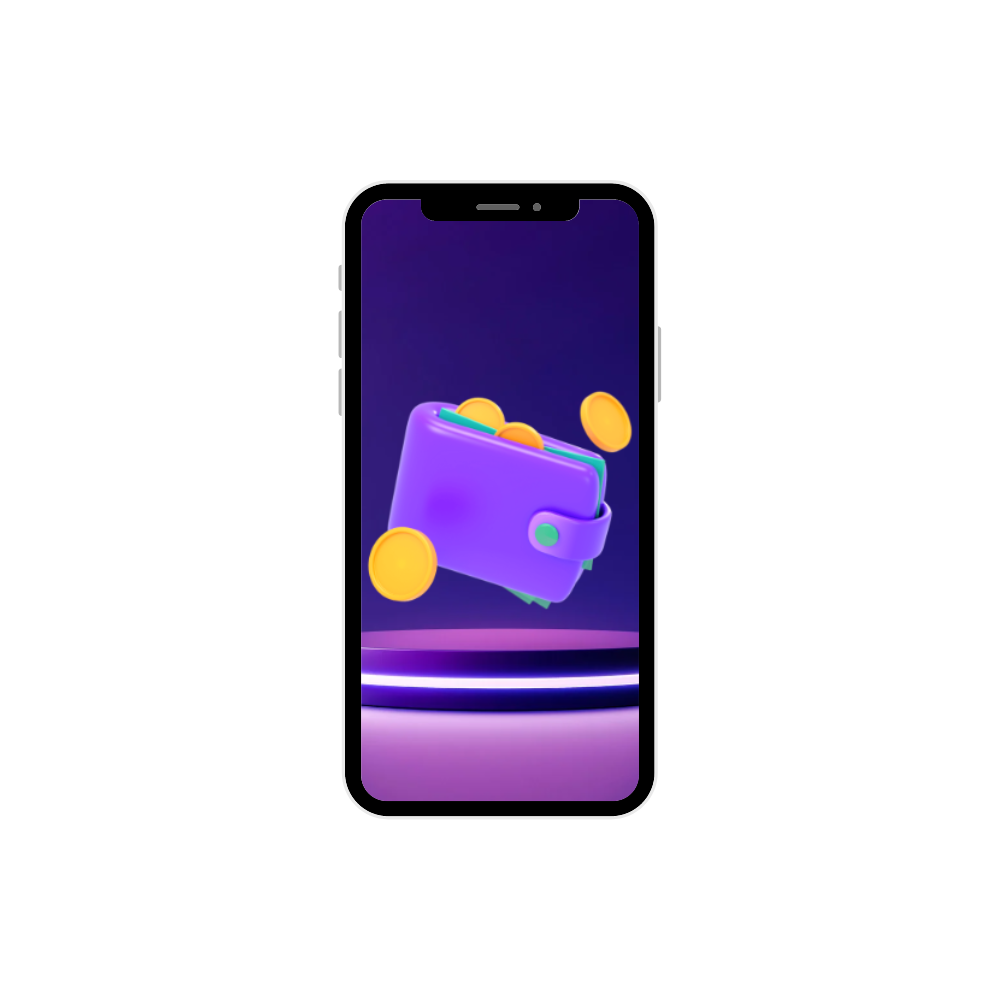
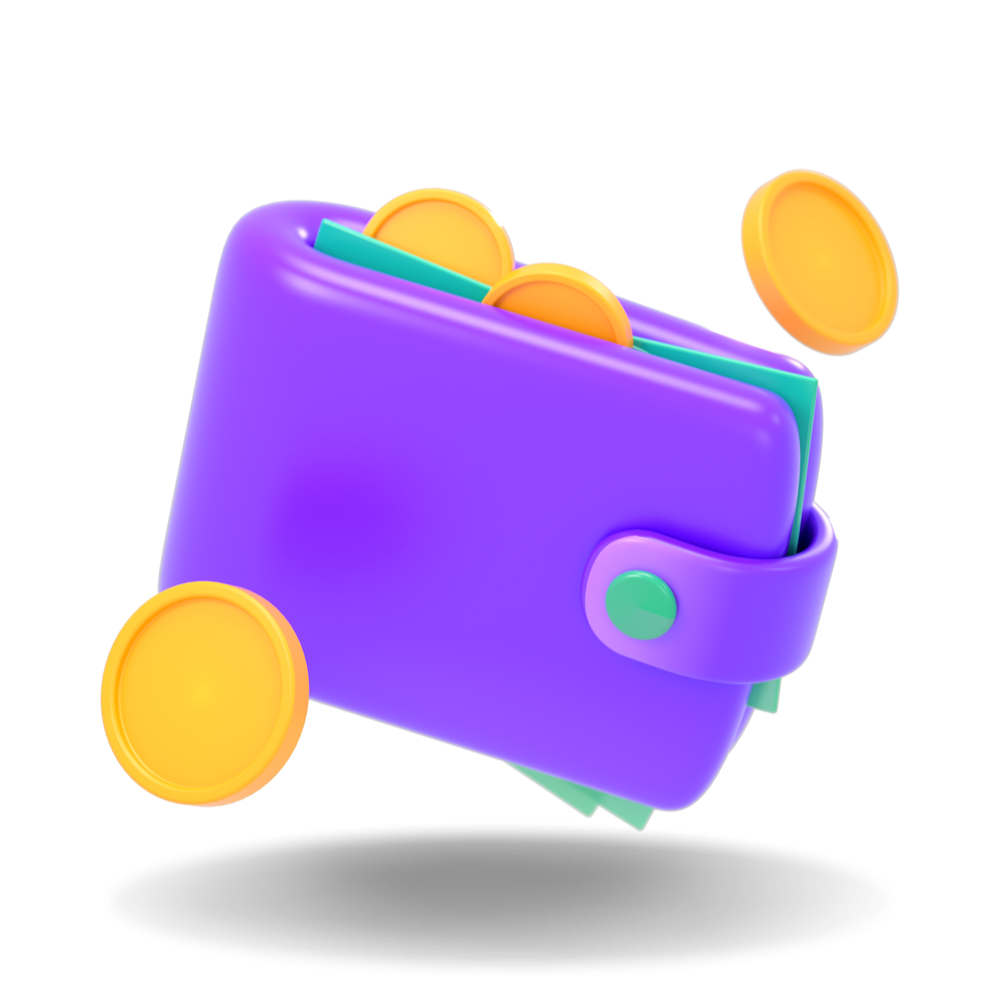
se completo el aboutus y se agrego el contacto

diff --git a/assets/styles.css b/assets/styles.css
@@ -5,7 +5,7 @@
 }
 
 @import url('https://fonts.googleapis.com/css2?family=Golos+Text:wght@400;600;800&family=Tilt+Warp&display=swap');
-
+@import url('https://fonts.googleapis.com/css2?family=Bebas+Neue&display=swap');
 :root {
   --purple: #232946;
   --pink: #eebbc3;
@@ -80,17 +80,19 @@ html{
 }
 
 .hero{
-  height: 100vh;
+  height: 100%;
   display: flex;
   align-items: center;
   justify-content: center;
   width: 100%;
   left: 0;
+  gap: 200px;
+  margin-top: 220px;
 }
 
 .hero h1 {
-  font-family: 'Tilt Warp', cursive;
-  color: var(--secondary-pink);
+  font-family: 'Bebas Neue', cursive;
+  color: var(--pink);
   font-size: 60px;
 }
 
@@ -108,6 +110,12 @@ html{
   width: 30%;
 }
 
+.hero img {
+  height: 550px;
+  width: 550px;
+}
+
+
 /*Beneficios*/
 
 #about-us {
@@ -120,9 +128,9 @@ html{
   display: flex;
   width: 80%;
   text-align: center;
-  margin-top: 75px;
-  height: 1200px;
+  margin-top: 220px;
   gap: 200px;
+  left: 0;
 }
 
 .about-us img {
@@ -174,19 +182,19 @@ html{
   font-size: 60px;
 }
 
-.about-us-download {
+.btn-download {
   background: linear-gradient(90deg, rgba(184,193,236,1) 27%, rgba(238,187,195,1) 78%);
   border: none;
   border-radius: 20px;
   width: 150px;
-  padding: 10px;
+  padding: 15px;
   color: var(--purple);
   font-family: 'Golos Text', sans-serif;
   text-decoration: none;
-  font-weight: 800;
+  font-weight: 400;
 }
 
-/*Producto*/
+/*Planes*/
 
 #info {
   margin-top: 80px;
@@ -198,10 +206,11 @@ html{
   align-items: center;
   gap: 100px;
   height: 100vh;
+  margin-top: 100px;
 }
 
 .info h2 {
-  color: var(--skyblue);
+  color: var(--pink);
   font-family: 'Jost', sans-serif;
   font-weight: 900;
   font-size: 35px;
@@ -214,7 +223,7 @@ html{
 .card {
   border: 2px solid var(--secondary-pink);
   border-radius: 20px;
-  background: linear-gradient(90deg, rgba(35,41,70,1) 42%, rgba(45,67,139,1) 100%);
+  background: linear-gradient(180deg, rgba(35,41,70,1) 42%, rgba(45,67,139,1) 100%);
   height: 500px;
   display: flex;
   justify-content: center;
@@ -257,4 +266,121 @@ html{
   background: linear-gradient(90deg, rgba(184,193,236,1) 27%, rgba(238,187,195,1) 78%);
   font-weight: 600;
   margin: 30px 0px;
+}
+
+/*Contact*/
+
+#contact-us{
+  margin-top: 75px;
+  width: 100%;
+}
+
+
+.contact-section {
+  display: flex;
+  justify-content: center;
+  align-items: center;
+  gap: 100px;
+  margin-bottom: 200px;
+}
+
+.input-help {
+  display: flex;
+  flex-direction: column;
+  justify-content: space-around;
+  gap: 15px;
+  font-family: 'Golos Text', sans-serif;
+  color: var(--pink);
+}
+
+.input-help-text {
+  height: 40px;
+  width: 300px;
+  border-radius: 4px;
+  padding: 5px;
+  background-color: var(--secondary-bluesky);
+  border: none;
+  color: var(--blue);
+  font-family: 'Golos Text', sans-serif;
+}
+
+.input-help-text::placeholder{
+  color: var(--blue);
+}
+
+.term {
+  display: flex;
+  flex-direction: row;
+  gap: 10px;
+  color: var(--secondary-pink);
+  font-family: 'Golos Text', sans-serif;
+}
+
+.btn-send-t-s{
+  height: 40px;
+  width: 300px;
+  border-radius: 4px;
+  background-color: var(--skyblue);
+  border: none;
+  font-family: 'Golos Text', sans-serif;
+  font-weight: 600;
+  font-size: 20px;
+}
+
+.msj-input{
+  border-radius: 4px;
+  background-color: var(--secondary-bluesky);
+  resize: none;
+  padding: 10px;
+  color: var(--blue);
+  font-family: 'Golos Text', sans-serif;
+  border: none;
+}
+
+.msj-input::placeholder{
+  color: var(--blue);
+}
+
+.info-section{
+  display: flex;
+  flex-direction: column;
+  gap: 20px;
+  align-items: center;
+}
+
+.info-contact{
+ display: flex;
+ flex-direction: column;
+ font-family: 'Golos Text', sans-serif;
+ color: var(--secondary-pink);
+}
+
+.info-contact ul{
+  display: flex;
+  flex-direction: column;
+  gap: 20px;
+  margin-top: 7px;
+}
+
+.info-map{
+ display: flex;
+ flex-direction: column;
+ gap: 20px;
+ align-items: center;
+ font-family: 'Golos Text', sans-serif;
+ color: var(--secondary-pink);
+}
+
+.info-map h3 {
+ font-weight: 800;
+}
+
+.info-map iframe {
+  height: 300px;
+  width: 300px;
+}
+
+.hr-page {
+  width: 100%;
+  border-color: var(--green);
 }

diff --git a/index.html b/index.html
@@ -8,6 +8,9 @@
     integrity="sha512-SzlrxWUlpfuzQ+pcUCosxcglQRNAq/DZjVsC0lE40xsADsfeQoEypE+enwcOiGjk/bSuGGKHEyjSoQ1zVisanQ==" 
     crossorigin="anonymous" 
     referrerpolicy="no-referrer" />
+    <link rel="preconnect" href="https://fonts.googleapis.com">
+    <link rel="preconnect" href="https://fonts.gstatic.com" crossorigin>
+    <link href="https://fonts.googleapis.com/css2?family=Bebas+Neue&display=swap" rel="stylesheet">
     <link rel="preconnect" 
     href="https://fonts.googleapis.com">
     <link rel="preconnect" 
@@ -36,11 +39,11 @@
     <section id="hero">
         <div class="hero">
             <div class="hero-info">
-               <h1>Una app a la altura de tu billetera</h1>
+               <h1>Tu dinero en las mejores manos</h1>
                <p>
                   Nos encargamos de desarollar la app que
                   te ayudara a administrar tu dinero de la
-                  mejor forma posible
+                  mejor forma posible, proteger.
                </p>
             </div>
           <img src="./assets/hero/image-hero.png" alt="image-hero">
@@ -71,7 +74,7 @@
                 </div>
             </div>
                 <div class="link-about-us">
-                   <a href="#download" class="about-us-download">Descarga la app</a>
+                   <a href="#download" class="btn-download">Descarga la app</a>
                 </div>
             </div>
         </div>
@@ -119,6 +122,41 @@
         </div>
     </section>
 
+    <section id="contact-us">
+              <div class="contact-section">
+                         <div class="input-help">
+                             <h2>Necesitas Ayuda?</h2>
+                               <p>Nombre</p>
+                               <input type="text" placeholder="Introduce Tu Nombre" class="input-help-text">
+                               <p>Email</p>
+                               <input type="email" placeholder="Introduce Tu Email" class="input-help-text">
+                               <p>Tu Mensaje</p>
+                               <textarea class="msj-input" placeholder="Mensaje" name="Mensaje" id="message" cols="30" rows="10"></textarea>
+                                  <div class="term">
+                                        <input type="checkbox" name="terms-service" id="terms-service" class="input-msj">
+                                        <label for="terms-service">Aceptar Terminos y Condiciones</label>
+                                  </div>
+                                    <div class="btn-send-t-s">
+                                        <button class="btn-send-t-s">Enviar</button>
+                                     </div>
+                         </div>
+                         <div class="info-section">
+             
+             
+                         <div class="info-contact">
+                                <h4>Numeros Telefonicos</h4>
+                            <ul>
+                                <li>+54 9 3875 89-1293</li>
+                                <li>+54 9 3876 80-2203</li>
+                            </ul>
+                         </div>
+                        <div class="info-map">
+                            <h3>Donde nos encontramos</h3>
+                            <iframe src="https://www.google.com/maps/embed?pb=!1m18!1m12!1m3!1d3622.182211759623!2d-65.41170276547811!3d-24.789213458544005!2m3!1f0!2f0!3f0!3m2!1i1024!2i768!4f13.1!3m3!1m2!1s0x941bc3bcaa4146a5%3A0x5858d5a81b90c139!2sPlaza%209%20de%20Julio!5e0!3m2!1ses-419!2sar!4v1677374192266!5m2!1ses-419!2sar"></iframe>
+                        </div>
+                 </div>
+             </div>
+    </section>
 </main>
 </body>
 </html>
